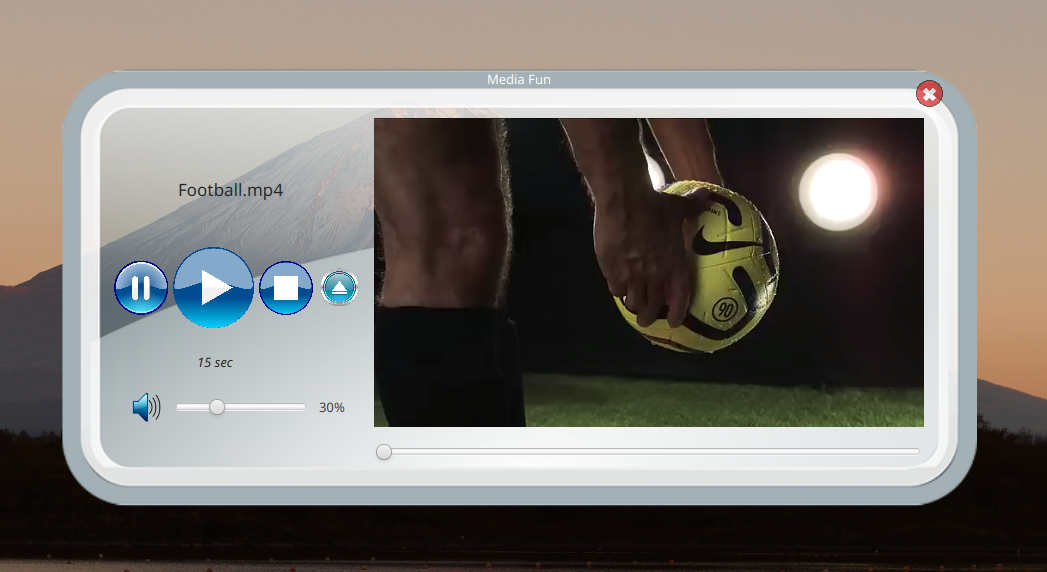
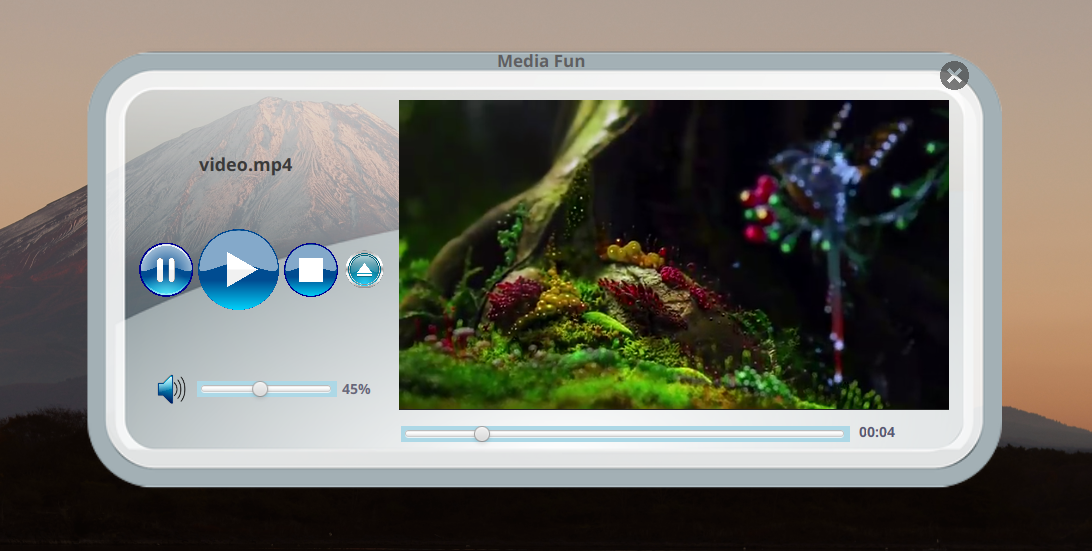
finalized-video-player

diff --git a/src/main/java/lk/ijse/dep13/fx/controller/VideoSceneController.java b/src/main/java/lk/ijse/dep13/fx/controller/VideoSceneController.java
@@ -4,7 +4,6 @@ import javafx.fxml.FXML;
 import javafx.scene.control.Label;
 import javafx.scene.control.Slider;
 import javafx.scene.effect.DropShadow;
-import javafx.scene.image.Image;
 import javafx.scene.image.ImageView;
 import javafx.scene.input.DragEvent;
 import javafx.scene.input.MouseEvent;
@@ -19,7 +18,7 @@ import javafx.util.Duration;
 
 import java.io.File;
 
-public class MainSceneController {
+public class VideoSceneController {
     @FXML public ImageView imgClose, imgOpen, imgPlay, imgPause, imgReset, imgVolume, imgMute, imgVideoWindow;
     @FXML public Label lblSong, lblDuration, lblVolume;
     @FXML public MediaView mdPreview;
@@ -235,16 +234,41 @@ public class MainSceneController {
         imgClose.setEffect(null);
     }
 
+
+    // Move the window
     double mouseX, mouseY;
-    public void imgVideoWindowOnMouseDragged(MouseEvent mouseEvent) {
+    private void onMouseDragged(MouseEvent mouseEvent) {
         Stage stage = (Stage) root.getScene().getWindow();
         stage.setX(mouseEvent.getScreenX() - mouseX);
         stage.setY(mouseEvent.getScreenY() - mouseY);
     }
-
-    public void imgVideoWindowOnMousePressed(MouseEvent mouseEvent) {
+    private void onMousePressed(MouseEvent mouseEvent) {
         mouseX = mouseEvent.getSceneX();
         mouseY = mouseEvent.getSceneY();
+    }
+
+    public void imgVideoWindowOnMouseDragged(MouseEvent mouseEvent) {
+        onMouseDragged(mouseEvent);
+    }
+
+    public void imgVideoWindowOnMousePressed(MouseEvent mouseEvent) {
+        onMousePressed(mouseEvent);
+    }
+
+    public void mdPreviewOnMouseDragged(MouseEvent mouseEvent) {
+        onMouseDragged(mouseEvent);
+    }
+
+    public void mdPreviewOnMousePressed(MouseEvent mouseEvent) {
+        onMousePressed(mouseEvent);
+    }
+
+    public void lblSongOnMouseDragged(MouseEvent mouseEvent) {
+        onMouseDragged(mouseEvent);
+    }
+
+    public void lblSongOnMousePressed(MouseEvent mouseEvent) {
+        onMousePressed(mouseEvent);
     }
 }
 

diff --git a/src/main/java/lk/ijse/dep13/fx/AppInitializer.java b/src/main/java/lk/ijse/dep13/fx/AppInitializer.java
@@ -1,10 +1,7 @@
 package lk.ijse.dep13.fx;
 
 import javafx.application.Application;
-import javafx.fxml.FXMLLoader;
 import javafx.scene.Scene;
-import javafx.scene.layout.AnchorPane;
-import javafx.scene.layout.Background;
 import javafx.scene.paint.Color;
 import javafx.stage.Stage;
 import javafx.stage.StageStyle;
@@ -20,7 +17,7 @@ public class AppInitializer extends Application {
 
     @Override
     public void start(Stage primaryStage) throws IOException {
-        Scene scene = new Scene(AppRouter.getContainer(AppRouter.Routes.MAIN));
+        Scene scene = new Scene(AppRouter.getContainer(AppRouter.Routes.VIDEO));
         scene.setFill(Color.TRANSPARENT);
         primaryStage.initStyle(StageStyle.TRANSPARENT);
         primaryStage.setScene(scene);

diff --git a/src/main/java/lk/ijse/dep13/fx/util/AppRouter.java b/src/main/java/lk/ijse/dep13/fx/util/AppRouter.java
@@ -11,13 +11,13 @@ import java.io.IOException;
 
 public class AppRouter {
     public enum Routes{
-        MAIN,AUDIO,
+        VIDEO,AUDIO,
     }
 
     public static AnchorPane getContainer (Routes route) throws IOException {
         AnchorPane container = null;
-        if (route == Routes.MAIN){
-            container = FXMLLoader.load(AppRouter.class.getResource("/scene/MainScene.fxml"));
+        if (route == Routes.VIDEO){
+            container = FXMLLoader.load(AppRouter.class.getResource("/scene/VideoScene.fxml"));
             container.setBackground(Background.fill(Color.TRANSPARENT));
         }else if (route == Routes.AUDIO){
             container = FXMLLoader.load(AppRouter.class.getResource("/scene/AudioScene.fxml"));

diff --git a/src/main/java/lk/ijse/dep13/fx/controller/AudioSceneController.java b/src/main/java/lk/ijse/dep13/fx/controller/AudioSceneController.java
@@ -219,7 +219,7 @@ public class AudioSceneController {
                 (fileChooser.getExtensionFilters().add(new FileChooser.ExtensionFilter("Video Files", "*.mkv"))) ||
                 (fileChooser.getExtensionFilters().add(new FileChooser.ExtensionFilter("Video Files", "*.wav")))){
             Stage stage = (Stage) imgOpen.getScene().getWindow();
-            Scene scene = new Scene(AppRouter.getContainer(AppRouter.Routes.MAIN));
+            Scene scene = new Scene(AppRouter.getContainer(AppRouter.Routes.VIDEO));
             stage.setScene(scene);
             scene.setFill(Color.TRANSPARENT);
         }
